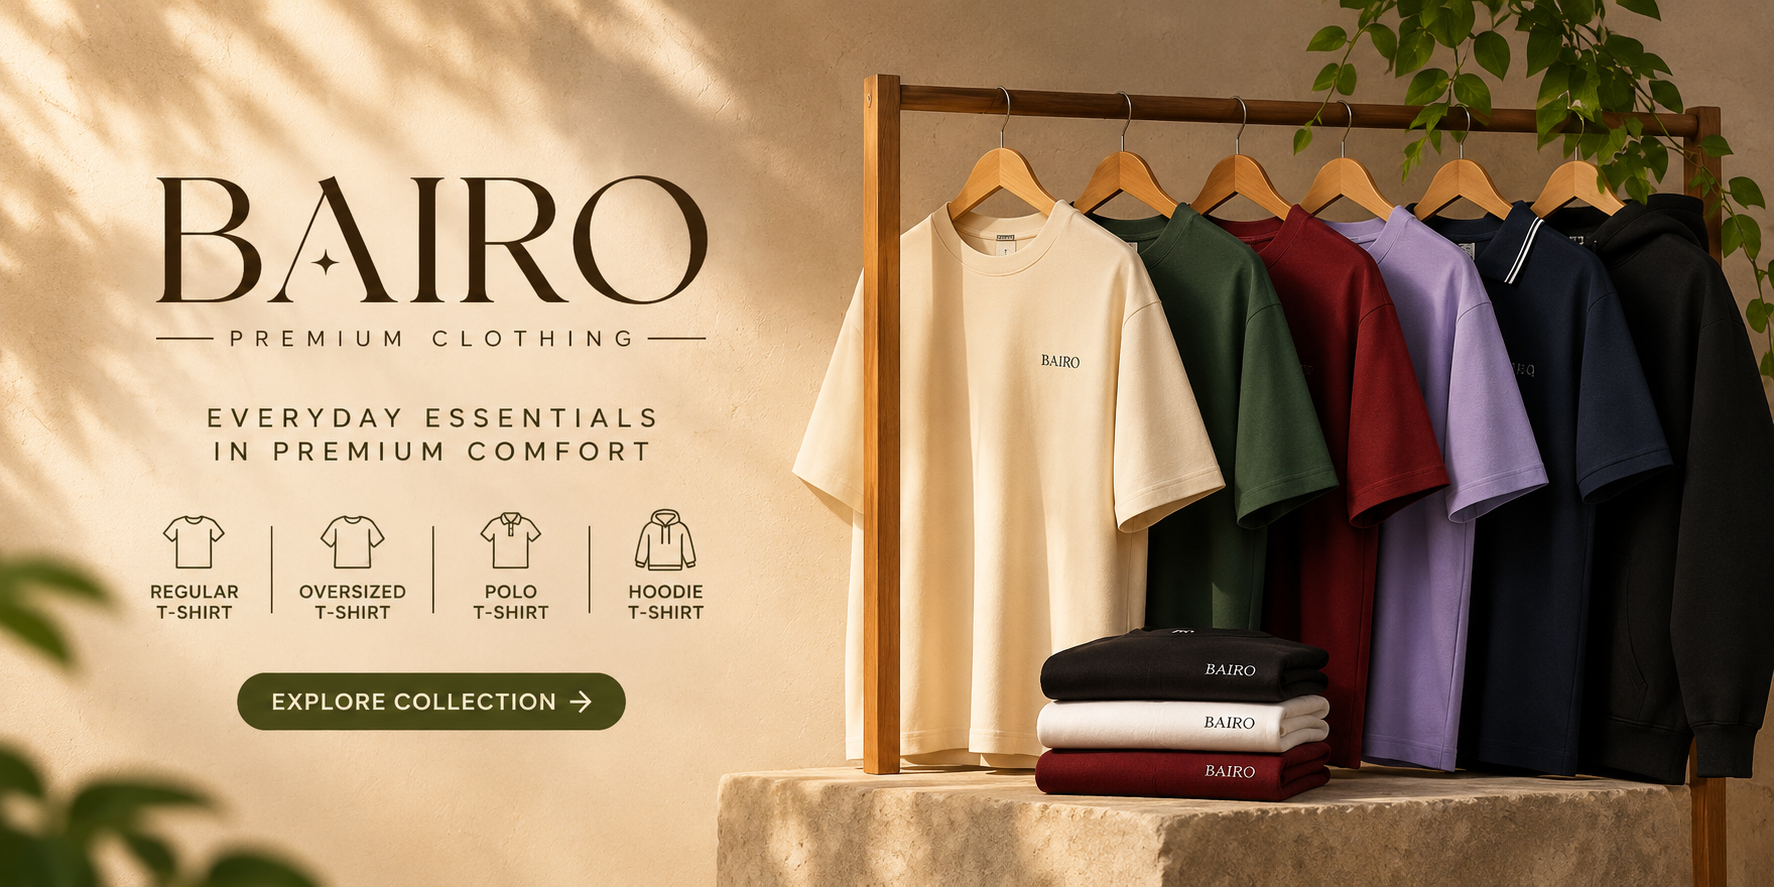
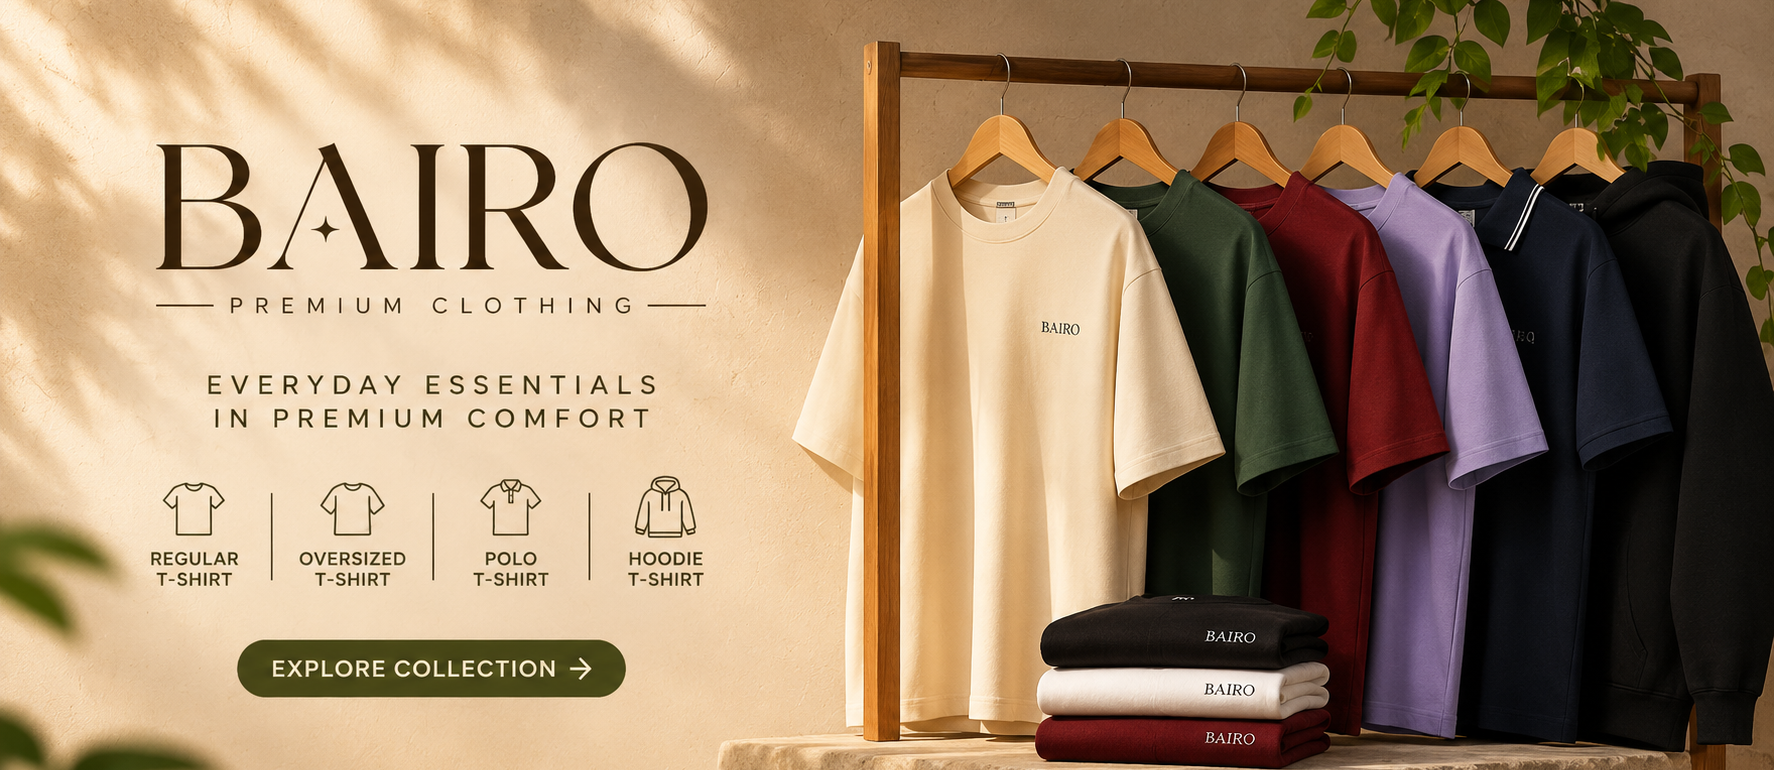
ntg

diff --git a/src/pages/Home.jsx b/src/pages/Home.jsx
@@ -8,7 +8,8 @@ import hero3 from "../assets/BAIRO_hero/hero-3.png";
 import hero4 from "../assets/BAIRO_hero/hero-4.png";
 import topsellingbg from "../assets/BAIRO_hero/topsellingbg.png";
 import Cards from "../components/Cards";
-import Catcard from "../components/Catcard";
+
+import Catcard from "../components/category";
 
 const slides = [hero5, hero1, hero2, hero6, hero7, hero3, hero4];
 
@@ -23,6 +24,7 @@ const Hero = () => {
     return () => clearInterval(interval);
   }, []);
 
+
   return (
     <>
       <section className="hero">
@@ -32,36 +34,15 @@ const Hero = () => {
           className="hero-image"
         />
       </section>
-      <section
-        className="top-selling"
-        style={{ backgroundImage: `url(${topsellingbg})` }}
-      >
-        <div className="top-selling-inner">
-          <h3 className="top-selling-title">Top Selling</h3>
-          <div className="cards">
-            <Cards />
-            <Cards />
-            <Cards />
-            <Cards />
-            <Cards />
-            <Cards />
-          </div>
-        </div>
-      </section>
-      <section
-        className="categories"
-        style={{ backgroundImage: `url(${topsellingbg})` }}
-      >
-        <div className="categories-inner">
-          <h3 className="categories-title">Shop by Category</h3>
-          <div className="cat-grid">
-            <Catcard />
-            <Catcard />
-            <Catcard />
-            <Catcard />
-          </div>
-        </div>
-      </section>
+
+  <section>
+    <Cards />
+  </section>
+
+  <section>
+    <Catcard />
+  </section>
+
       <section
         className="feedback"
         style={{ backgroundImage: `url(${topsellingbg})` }}

diff --git a/src/components/category.jsx b/src/components/category.jsx
@@ -1,0 +1,39 @@
+import React from 'react'
+import { Link } from 'react-router-dom'
+import regular from "../assets/category_img/black-tshirt.png"
+import polo from "../assets/category_img/polo-shirt.jpg"
+import hoodie from "../assets/category_img/hoodie.png"
+import oversized from "../assets/category_img/navy-tshirt.png"
+
+
+const Catcard = () => {
+  return (
+
+      <section className="categories">
+            <div className="categories-inner">
+              <h3 className="categories-title">Shop by Category</h3>
+              <div className="cat-grid">
+                 <div className='cat-card'>
+        <img src={regular} alt='Regular T-shirt' className='cat-card-img'/>
+        <Link  className='cat-card-btn'>Regular-T</Link>
+    </div>
+                 <div className='cat-card'>
+        <img src={polo} alt='Polo shirt' className='cat-card-img'/>
+        <Link  className='cat-card-btn'>Polo</Link>
+    </div>
+                 <div className='cat-card'>
+        <img src={hoodie} alt='Hoodie' className='cat-card-img'/>
+        <Link  className='cat-card-btn'>Hoodie</Link>
+    </div>
+                 <div className='cat-card'>
+        <img src={oversized} alt='Oversized T-shirt' className='cat-card-img'/>
+        <Link  className='cat-card-btn'>Oversized-T</Link>
+    </div>
+              </div>
+            </div>
+          </section>
+   
+  )
+}
+
+export default Catcard

diff --git a/src/components/Cards.jsx b/src/components/Cards.jsx
@@ -4,12 +4,41 @@ import single from "../assets/BAIRO_hero/single.png"
 
 const Cards = () => {
   return (
-    <Link  className='card-item'>
+
+
+      <section className="top-selling">
+            <div className="top-selling-inner">
+              <h3 className="top-selling-title">Top Selling</h3>
+              <div className="cards">
+                 <Link  className='card-item'>
         <img src={single} alt='' className='cards-img'/>
         <div className='cards-label'>
             <span className='cards-title'>title</span>
         </div>
     </Link>
+                 <Link  className='card-item'>
+        <img src={single} alt='' className='cards-img'/>
+        <div className='cards-label'>
+            <span className='cards-title'>title</span>
+        </div>
+    </Link>
+                 <Link  className='card-item'>
+        <img src={single} alt='' className='cards-img'/>
+        <div className='cards-label'>
+            <span className='cards-title'>title</span>
+        </div>
+    </Link>
+                 <Link  className='card-item'>
+        <img src={single} alt='' className='cards-img'/>
+        <div className='cards-label'>
+            <span className='cards-title'>title</span>
+        </div>
+    </Link>
+              </div>
+            </div>
+          </section>
+          
+   
   )
 }
 

diff --git a/src/App.css b/src/App.css
@@ -1,3 +1,7 @@
+body {
+  background-color: #efe3d0;
+}
+
 /* navbaaaaar */
 .navbar-bairo {
   background-color: #6a863d;
@@ -30,9 +34,6 @@
   min-height: 0;
   overflow: hidden;
   width: 100%;
-  height: 100vh;
-  min-height: 600px;
-
   background-size: cover;
   background-position: center;
   background-repeat: no-repeat;
@@ -49,8 +50,8 @@
 
 @media (max-width: 768px) {
   .hero {
-    height: 75vh;
-    min-height: 500px;
+    height: auto;
+    min-height: 0;
     background-position: 60% center;
   }
 }
@@ -215,7 +216,7 @@
 
 .cards {
   display: grid;
-  grid-template-columns: repeat(3, 1fr); /* fixed: single parentheses */
+  grid-template-columns: repeat(4, 1fr); /* fixed: single parentheses */
   gap: 12px;
   max-width: none;
   margin: 0;
@@ -286,6 +287,11 @@
   max-width: 80%;
   margin: 0 auto;
   padding: 40px 20px;
+  
+}
+
+.top-selling-inner {
+  padding-top: 20;
 }
 
 .top-selling-title,
@@ -333,8 +339,8 @@
   background: #efe3d0;
   border-radius: 16px;
   overflow: hidden;
+  
 }
-
 .cat-card-img {
   width: 100%;
   height: 100%;
